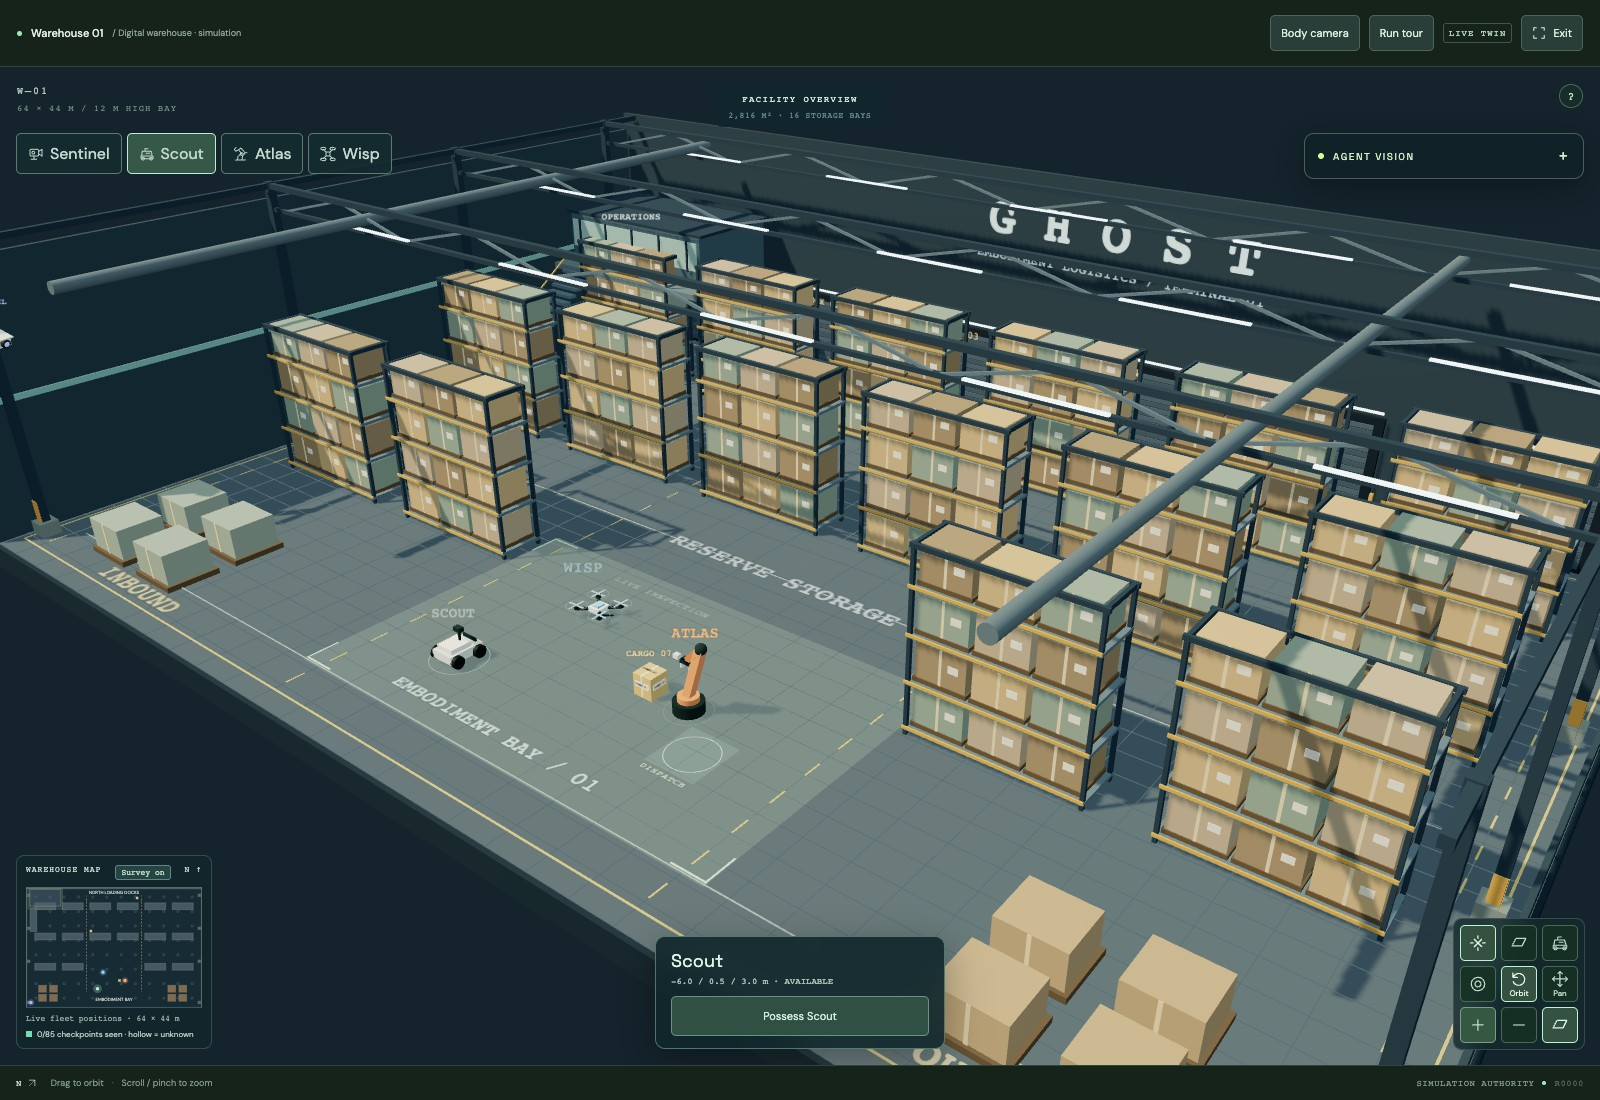
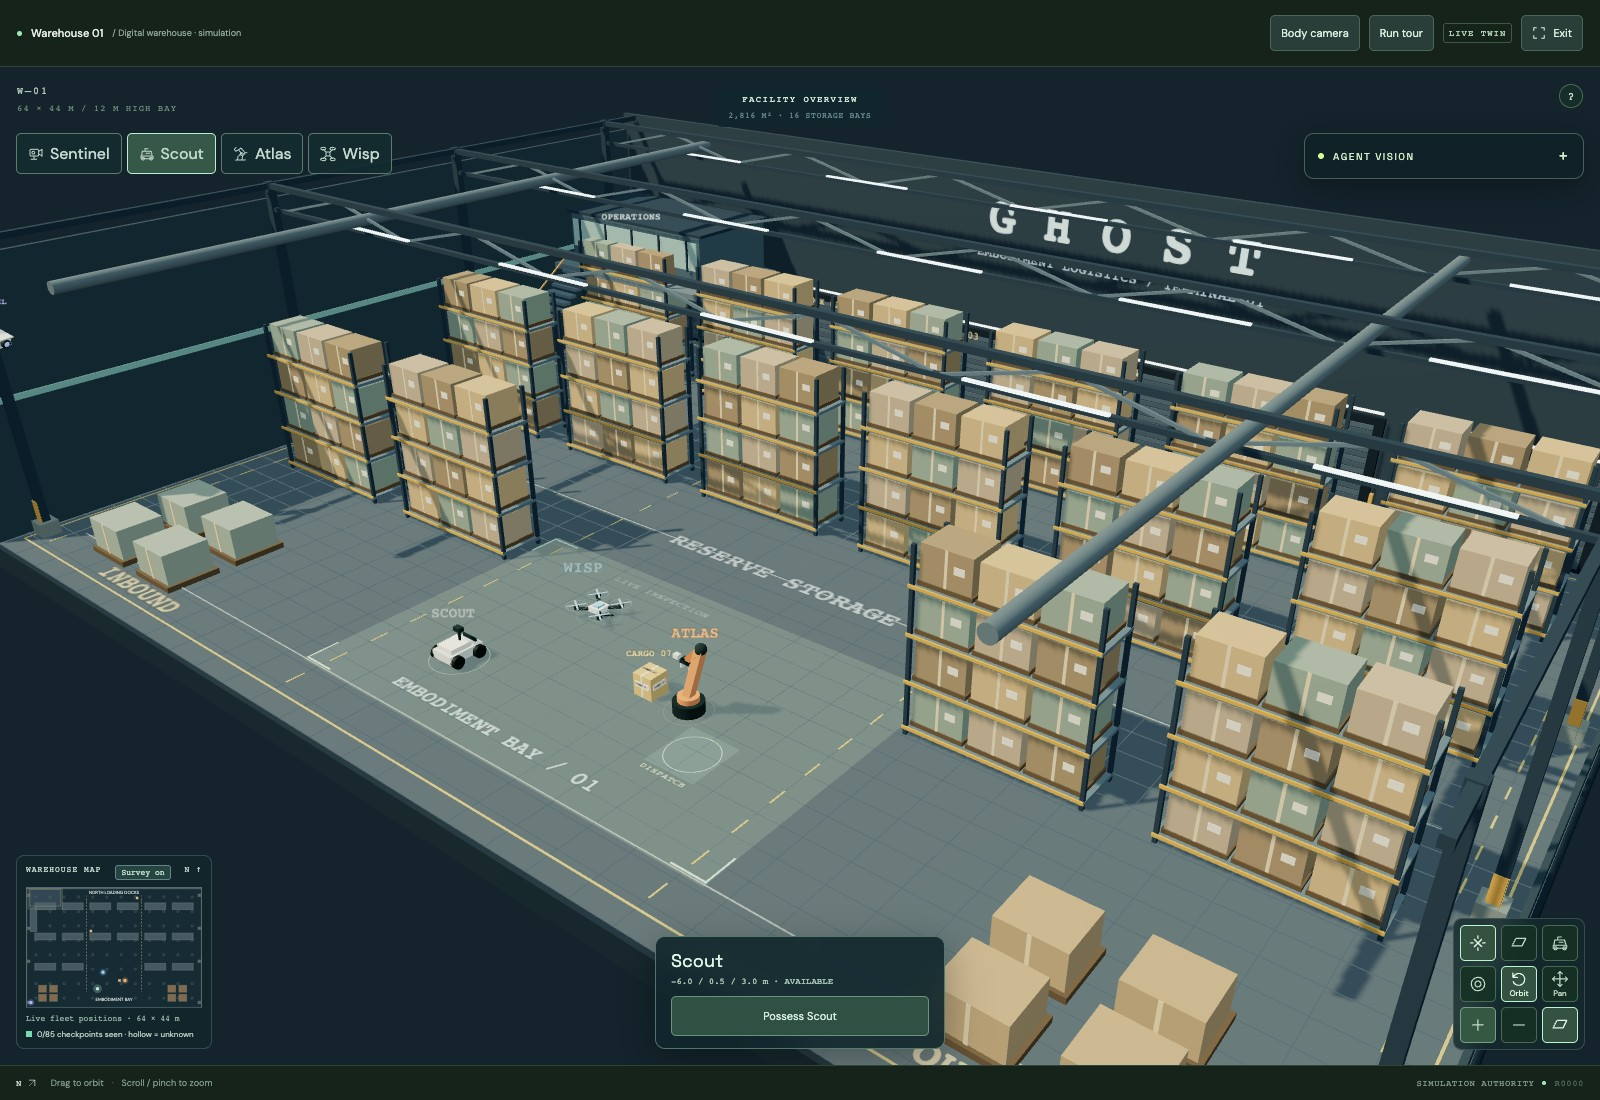
Remove the frame above the highest rack boxes (#15)

diff --git a/apps/web/src/IndustrialHall.tsx b/apps/web/src/IndustrialHall.tsx
@@ -81,12 +81,7 @@ for (const [bay, [x, z]] of bays.entries()) {
       );
     }
   }
-  // Leave the fourth tier open: a solid cap shares the boxes' top plane at
-  // y=8.05 and flickers through them. Perimeter rails clear the stock footprint.
-  for (const dz of [-1.05, 1.05])
-    add(frame, [x, 7.95, z + dz], [7.6, 0.2, 0.16], steel);
-  for (const dx of [-3.65, 3.65])
-    add(frame, [x + dx, 7.95, z], [0.16, 0.2, 1.94], steel);
+  // The highest boxes are exposed; there is no shelf or cap above them.
 }
 // A high north wall, side wall, loading doors and a mezzanine establish the scale.
 add(frame, [0, 7.2, -33.9], [64, 14.4, 0.3], "#394e5a");

diff --git a/docs/progress/racks/README.md b/docs/progress/racks/README.md
@@ -1,6 +1,6 @@
 # Rack top rendering
 
-The fourth storage tier remains in place. Its boxes and the former solid rack cap both ended at y=8.05, causing striped patches as their overlapping top faces competed in the depth buffer. The cap is now four perimeter rails outside the stock footprint, within the existing collision envelope.
+The highest row of boxes is exposed, with no cap, shelf, or horizontal frame above it. The former solid cap shared the boxes' top plane at y=8.05 and caused striped patches as the overlapping faces competed in the depth buffer. All four stock levels and the existing collision envelope are preserved.
 
 Actual Chromium/WebGL captures from the local production build, using the same camera actions before and after the change:
 
@@ -8,4 +8,4 @@ Actual Chromium/WebGL captures from the local production build, using the same c
 
 ![Fixed racks from above](after-top.jpg)
 
-[Before the geometry fix](before-angled.jpg). Both fixed views rendered without browser errors. Type checks, production builds, and the repository test suite validate the change; hosted deployment is verified separately.
+[Before the geometry fix](before-angled.jpg). The fixed scene was also checked while orbiting and panning, without browser errors. Type checks, production builds, and the repository test suite validate the change; hosted deployment is verified separately.
